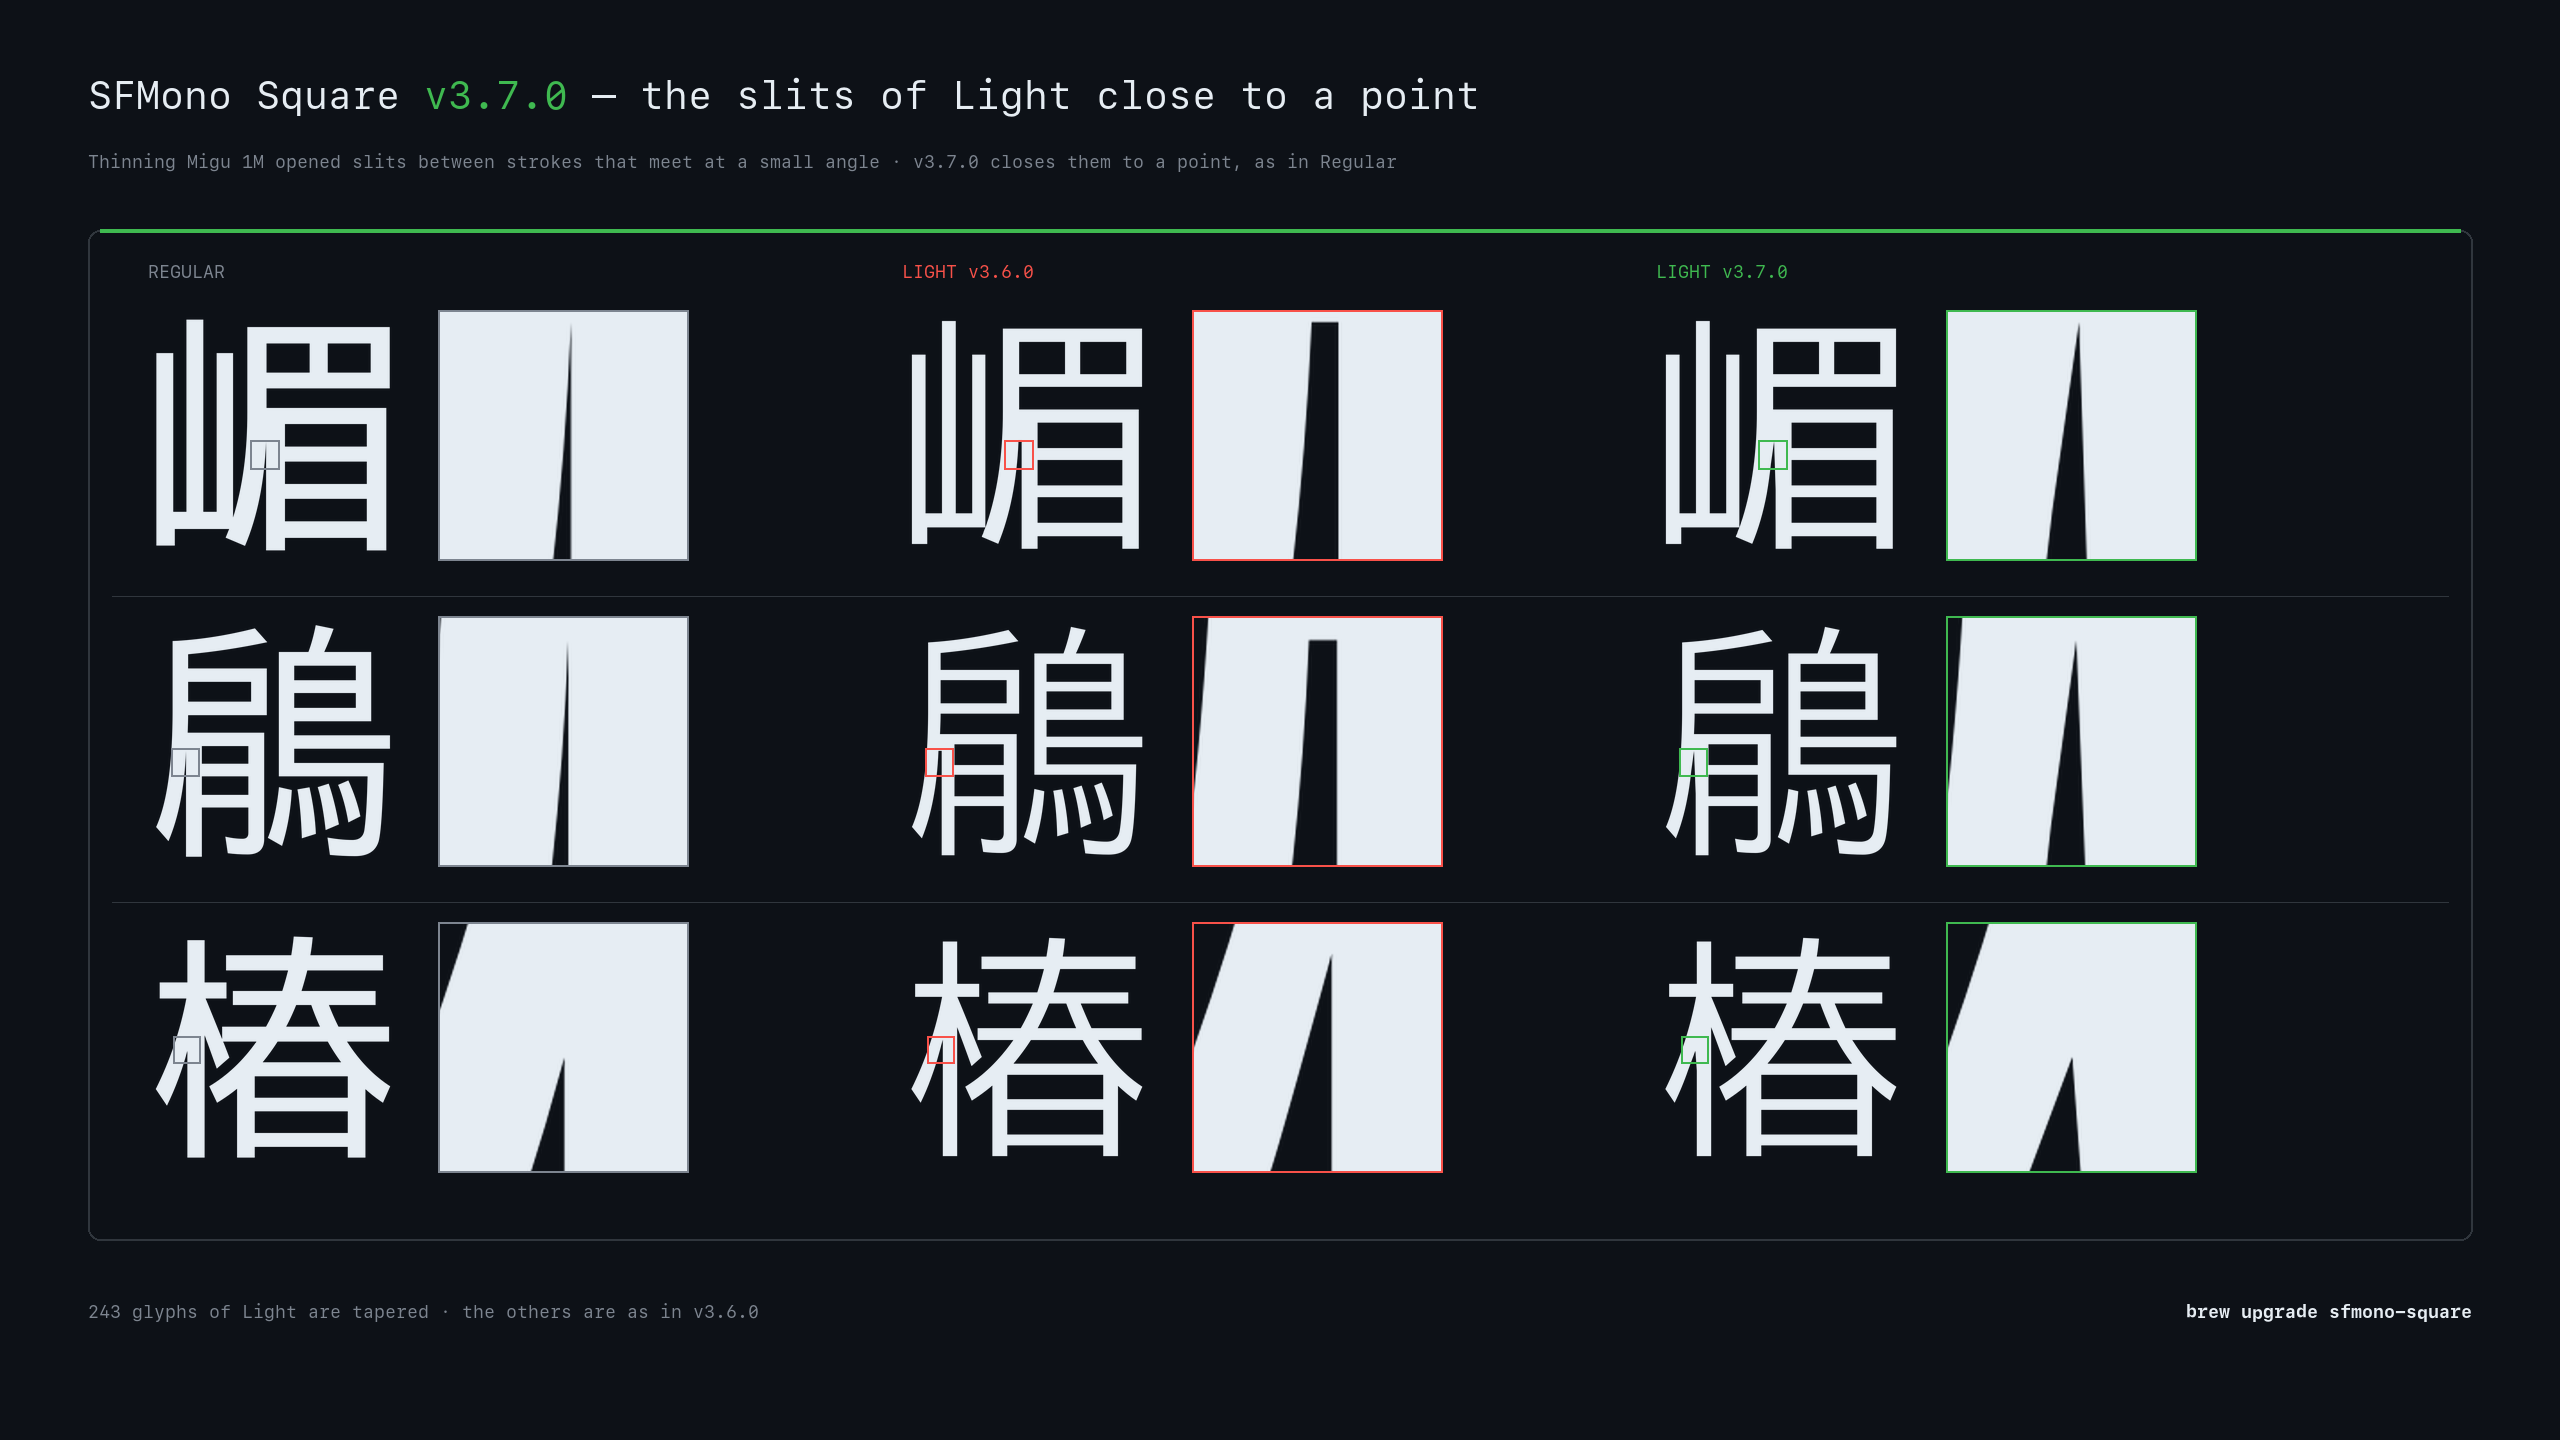
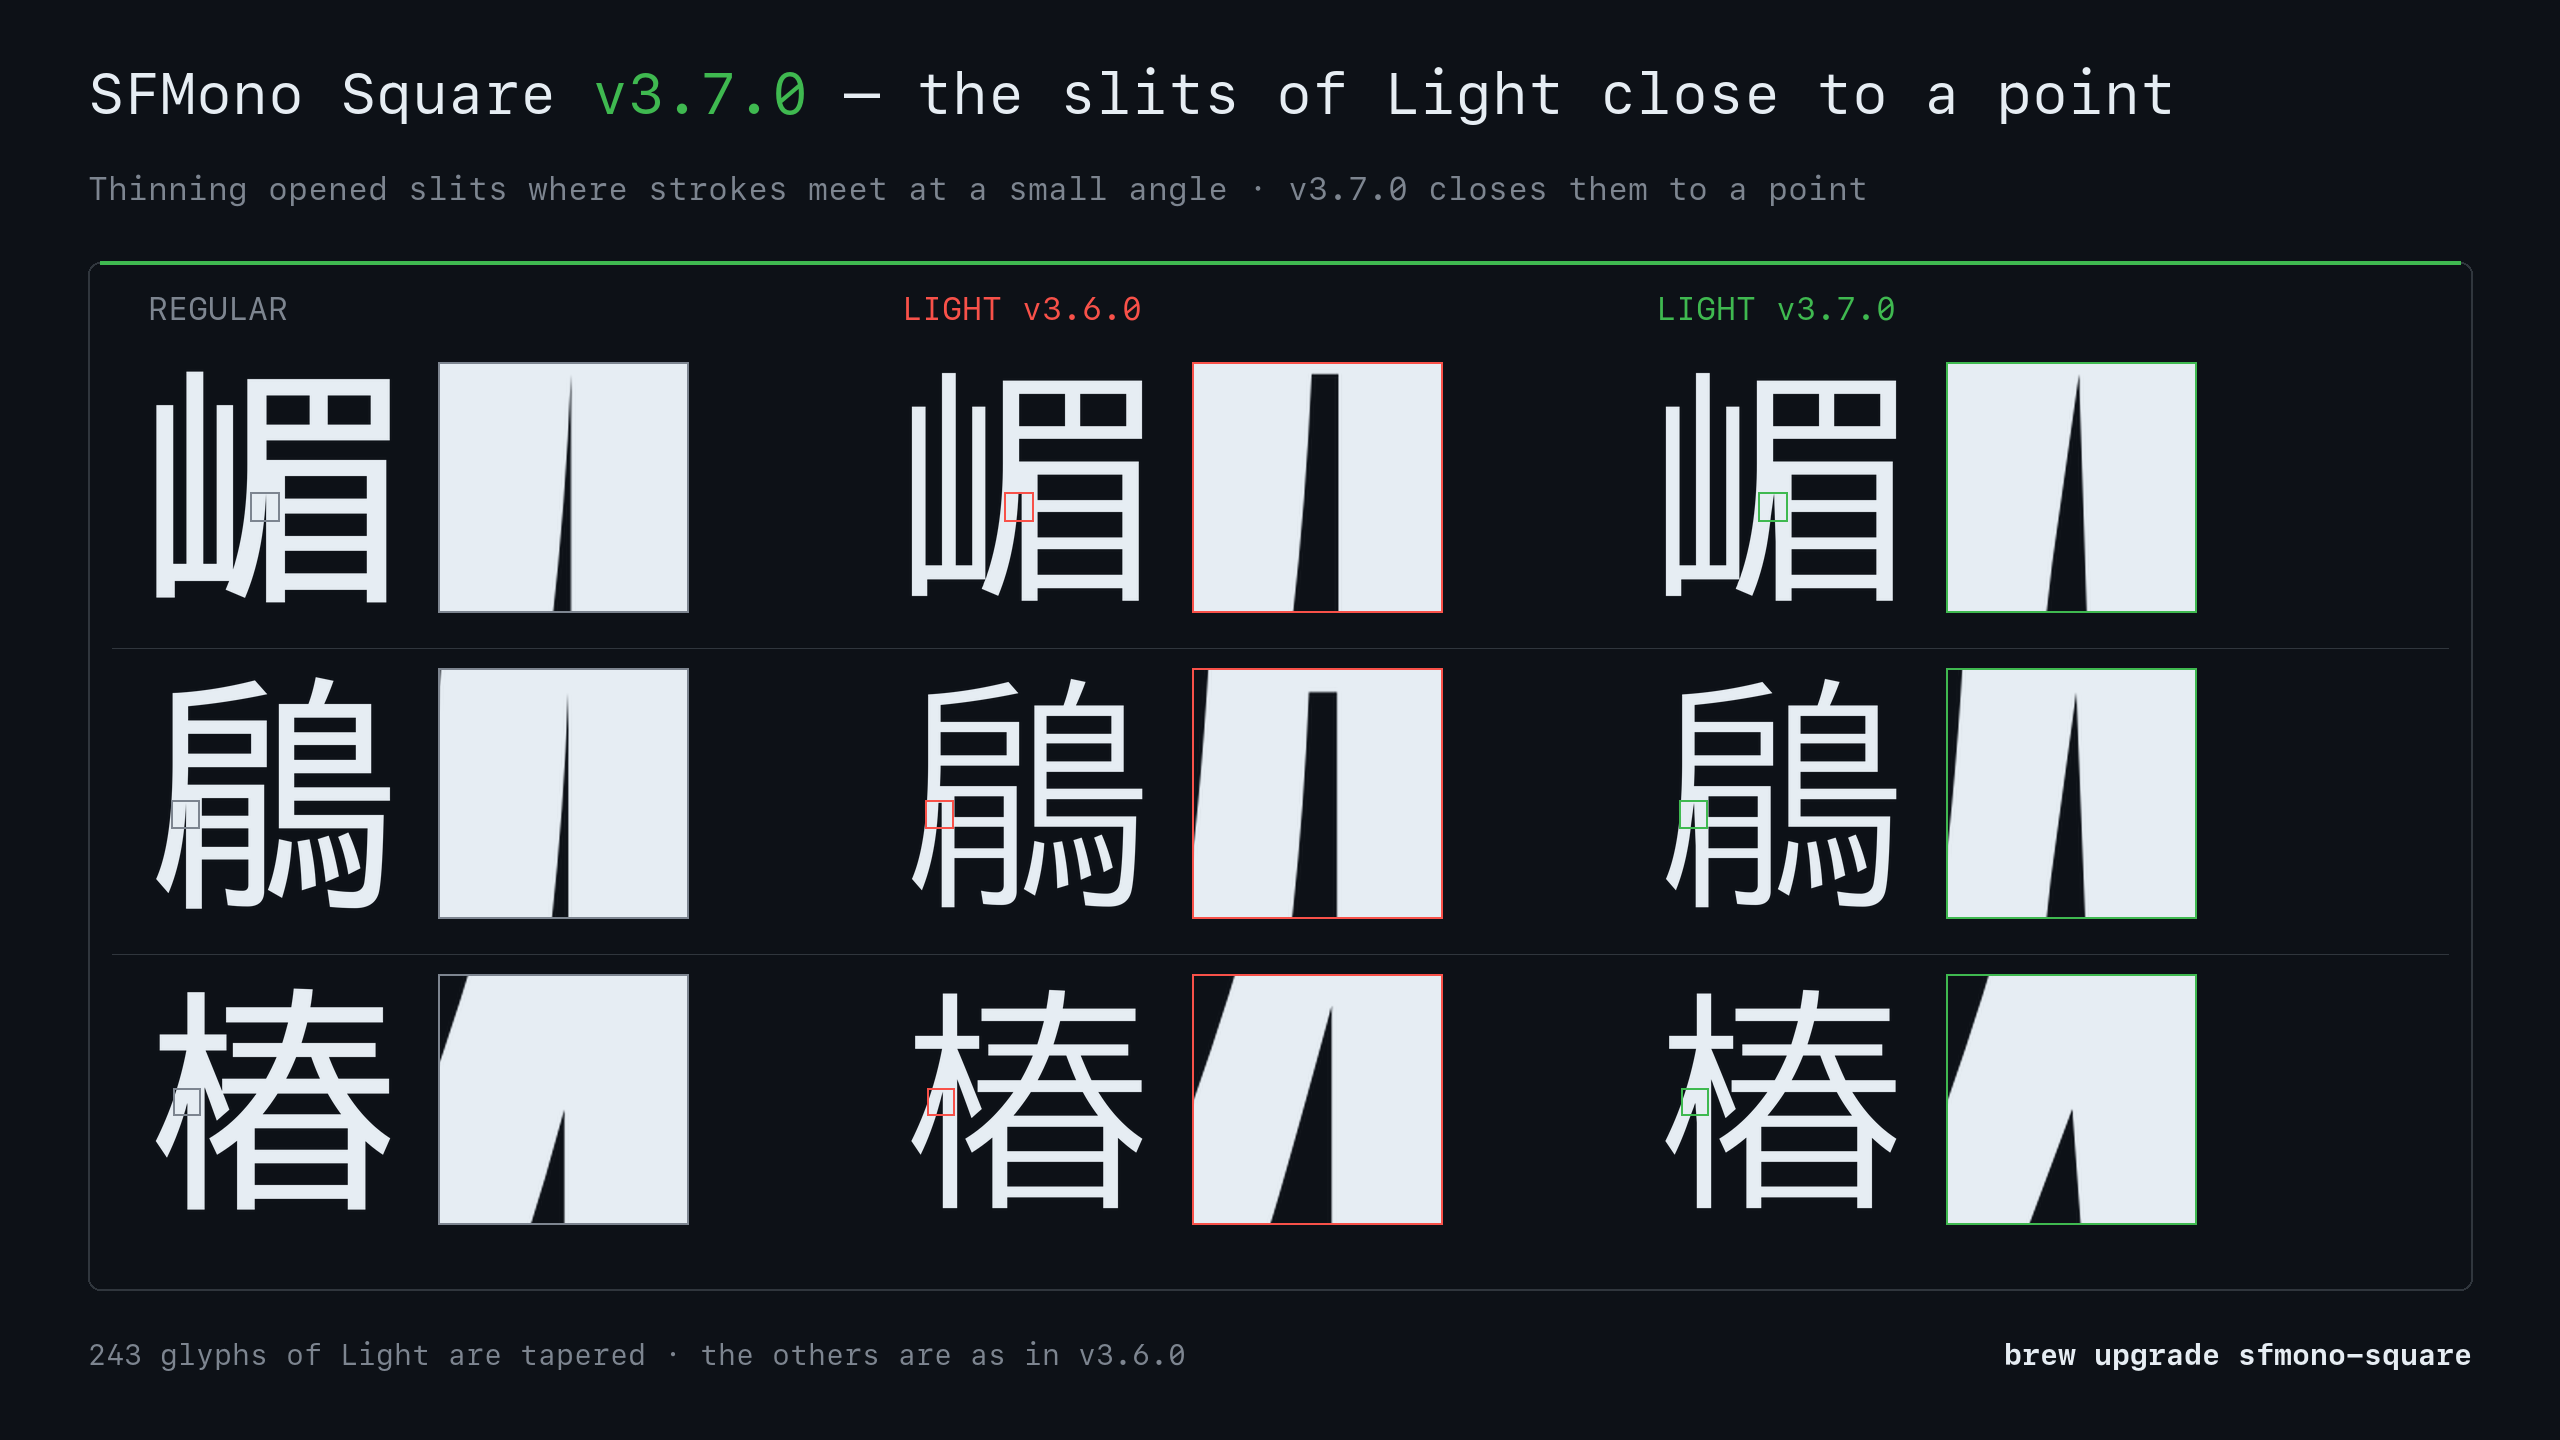
docs: show where the kanji come from, and enlarge the text of the images of v3.7.0 (#158)

diff --git a/.github/release-notes/v3.7.0.md b/.github/release-notes/v3.7.0.md
@@ -1,5 +1,7 @@
 # Kanji beyond JIS X 0213
 
+![Glyphs of SF Mono Square coloured by the font each comes from: SF Mono, Migu 1M, Source Han Sans and Plangothic, on a grid of cells](https://raw.githubusercontent.com/delphinus/homebrew-sfmono-square/master/.github/images/v3.7.0-kanji.png)
+
 Migu 1M has the kanji of JIS X 0213 only, about 9,600 of the 21,000 CJK Unified Ideographs. Any
 other kanji fell back to a font the system picked for it, a different one for each, none of them
 scaled down to 82% as Migu 1M is, and a line of them looked uneven.
